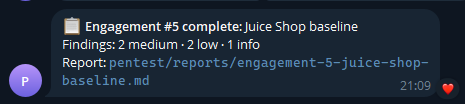
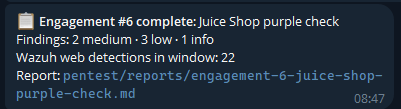
Enhance README pentest and detection visuals
Update the README with clearer context around medium SQLi alerts and the purple-loop detection path, add screenshots for the engagement form and report detection section, and refresh existing Telegram screenshots/captions to better explain detection outcomes and engagement-window alert counts.

Changed region(s): [[0.0, 0.1154, 0.9875, 0.9519], [0.0299, 0.0, 0.0599, 0.0288]]

diff --git a/README.md b/README.md
@@ -63,8 +63,8 @@ Example: a simulated SSH brute force from a Tor exit node raises 9 Wazuh alerts.
 
 <p align="center">
   <img src="docs/screenshots/telegram-medium-ssh.png" alt="MEDIUM Telegram alert for a failed SSH login from a Tor exit node" width="700"><br>
-  <img src="docs/screenshots/telegram-medium-sqli.png" alt="MEDIUM Telegram alert for a SQL injection attempt from a scanning service" width="700"><br>
-  <sub>MEDIUM alerts arrive as silent notifications, with the raw log line HTML-escaped.</sub>
+  <img src="docs/screenshots/telegram-medium-sqli.png" alt="MEDIUM Telegram alert for a SQL injection attempt against the lab web server, raised by Wazuh rule 31164" width="700"><br>
+  <sub>MEDIUM alerts arrive as silent notifications, with the raw log line HTML-escaped. The SQL injection alert comes from the purple loop: the lab web server's access log, read by Wazuh (rule 31164).</sub>
 </p>
 
 ## Pentest engagement assistant
@@ -80,6 +80,11 @@ flowchart LR
     MD --> T["Telegram summary"]
 ```
 
+<p align="center">
+  <img src="docs/screenshots/engagement-form.png" alt="PurpleN8 engagement form asking for engagement name, tester, authorisation reference, targets, testing window and authorisation confirmation" width="380"><br>
+  <sub>The engagement form. Nothing is tested until the scope gate accepts the authorisation, targets and dates.</sub>
+</p>
+
 - **Scope gate:** every target must be an http(s) URL on the lab allowlist (`PENTEST_ALLOWED_HOSTS`, default `juice-shop`). An authorisation reference and confirmation are required, and today must fall inside the authorised window. **Rejected requests are recorded too**, which gives an audit trail of what was refused and why.
 - **Non-intrusive checks:** one ordinary GET of each target's home page and `/.well-known/security.txt`. Headers and cookies are compared with the [OWASP Secure Headers Project](https://owasp.org/www-project-secure-headers/) guidance: HTTPS, HSTS, CSP, clickjacking protection, `nosniff`, Referrer-Policy, Permissions-Policy, CORS, version disclosure, cookie flags and security.txt. **No attack payloads are sent.**
 - **Severity** uses a simple qualitative rubric (info / low / medium / high). It is **not CVSS**.
@@ -90,7 +95,13 @@ flowchart LR
 Example run against Juice Shop: 2 medium (no HTTPS, no CSP), 2 low (no Referrer-Policy, `Access-Control-Allow-Origin: *`) and 1 info (only the deprecated Feature-Policy is set). It passes X-Frame-Options, `nosniff` and security.txt.
 
 <p align="center">
-  <img src="docs/screenshots/telegram-engagement-summary.png" alt="Telegram summary of a completed pentest engagement" width="420">
+  <img src="docs/screenshots/report-detection.png" alt="Detection (purple team) section of an engagement report, listing Wazuh web alerts grouped by rule and source with their SOAR outcomes" width="900"><br>
+  <sub>The report's Detection section: the SQL injection was detected by Wazuh (rule 31164) and notified, while repeated server errors were grouped and mostly suppressed.</sub>
+</p>
+
+<p align="center">
+  <img src="docs/screenshots/telegram-engagement-summary.png" alt="Telegram summary of a completed pentest engagement, including the number of Wazuh web detections in the window" width="420"><br>
+  <sub>Engagement summary, including how many Wazuh web alerts were raised during the authorised window.</sub>
 </p>
 
 ```bash
